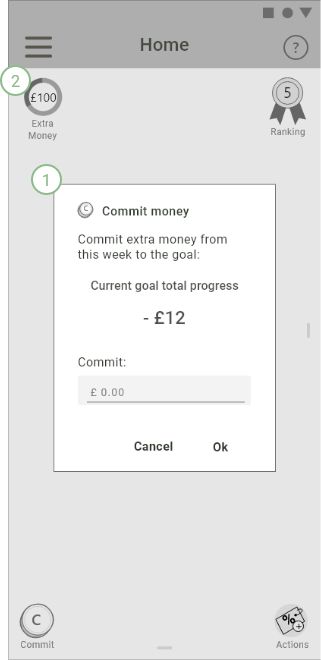
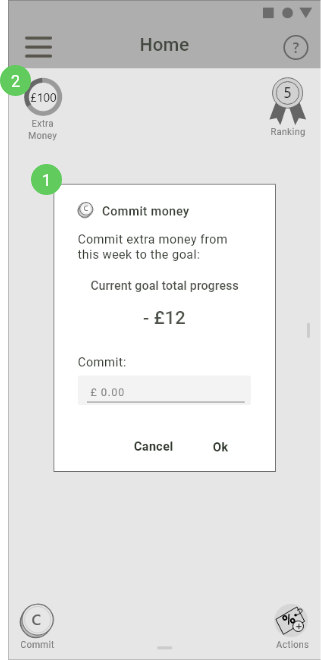
Updated money organizer images
- Added mobile version images
- Changed the colour of the lines indicating the features on the screens to bright green.

Changed region(s): [[0.0935, 0.2424, 0.1869, 0.303], [0.0, 0.0909, 0.0935, 0.1515]]

diff --git a/money-organizer.html b/money-organizer.html
@@ -178,7 +178,8 @@
                 </ul>
                 <div class="col-lg-6 space-left">
                   <picture>
-                    <img src="img/money-organizer/case-study/ranking-system@2x.png" alt="Ranking system">
+                    <source srcset="img/money-organizer/case-study/ranking-system@2x.png" media="(min-width:510px)">
+                    <img src="img/money-organizer/case-study/ranking-system@1x.png" alt="Ranking system">
                   </picture>
                 </div>
                 <div class="col-lg-6 space-left ">
@@ -189,11 +190,13 @@
                   <p class="space-bottom">
                     As an example, the user might have a goal of £600 in 100 days, and the user has saved money for 10 days. That means:</p>
                   <picture>
-                    <img src="img/money-organizer/case-study/ranking-time.png" alt="Ranking system" class="center">
+                    <source srcset="img/money-organizer/case-study/ranking-time.png" media="(min-width:510px)">
+                    <img src="img/money-organizer/case-study/ranking-time@1x.png" alt="Ranking system" class="center">
                   </picture>
                   <p class="space-vertical">The user so far has saved £120, so 20% of the total amount (£600 ).</p>
                   <picture>
-                    <img src="img/money-organizer/case-study/ranking-goal.png" alt="Ranking system" class="center">
+                    <source srcset="img/money-organizer/case-study/ranking-goal.png" media="(min-width:510px)">
+                    <img src="img/money-organizer/case-study/ranking-goal@1x.png" alt="Ranking system" class="center">
                   </picture>
                   <p class="space-top">So in the Ranking page, the user will see his / her friends goal progress and action progress when they were saving for their goal and they were at the same time percentage.</p>
                 </div>
@@ -212,7 +215,8 @@
                 <div class="col-12">
                   <div class=" col-md-12 col-lg-6">
                     <picture>
-                      <img src="img/money-organizer/case-study/goal-status@2x.png" alt="Goal status">
+                      <source srcset="img/money-organizer/case-study/goal-status@2x.png" media="(min-width:510px)">
+                      <img src="img/money-organizer/case-study/goal-status@1x.png" alt="Goal status">
                     </picture>
                   </div>
                   <div class="col-md-12 col-lg-6">
